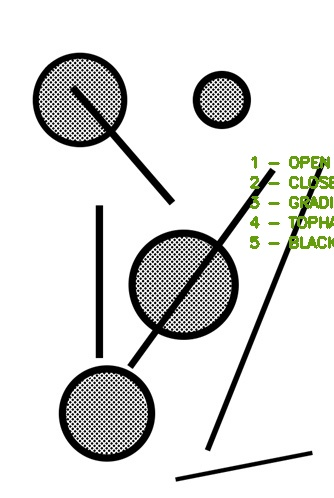
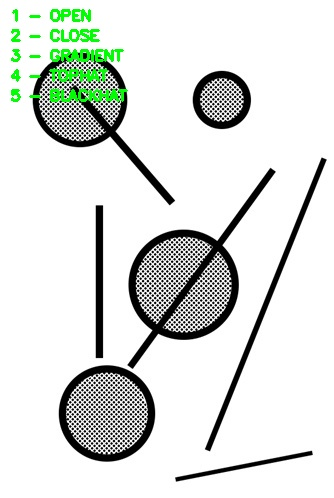
f

diff --git a/lab4.py b/lab4.py
@@ -135,11 +135,11 @@ createTrackbar2()
 while True:
 
     pictureMorphologyEx = morphologyEx(picture)
-    cv2.putText(pictureMorphologyEx, '1 - OPEN', (pictureMorphologyEx.shape[0] // 2, pictureMorphologyEx.shape[1] // 2), cv2.FONT_HERSHEY_SIMPLEX, 0.5, (13, 158, 100), 2)
-    cv2.putText(pictureMorphologyEx, '2 - CLOSE', (pictureMorphologyEx.shape[0] // 2, pictureMorphologyEx.shape[1] // 2 + 20), cv2.FONT_HERSHEY_SIMPLEX, 0.5, (13, 158, 100), 2)
-    cv2.putText(pictureMorphologyEx, '3 - GRADIENT', (pictureMorphologyEx.shape[0] // 2, pictureMorphologyEx.shape[1] // 2 + 40), cv2.FONT_HERSHEY_SIMPLEX, 0.5, (13, 158, 100), 2)
-    cv2.putText(pictureMorphologyEx, '4 - TOPHAT', (pictureMorphologyEx.shape[0] // 2, pictureMorphologyEx.shape[1] // 2 + 60), cv2.FONT_HERSHEY_SIMPLEX, 0.5, (13, 158, 100), 2)
-    cv2.putText(pictureMorphologyEx, '5 - BLACKHAT', (pictureMorphologyEx.shape[0] // 2, pictureMorphologyEx.shape[1] // 2 + 80), cv2.FONT_HERSHEY_SIMPLEX, 0.5, (13, 158, 100), 2)
+    cv2.putText(pictureMorphologyEx, '1 - OPEN', (10, 20), cv2.FONT_HERSHEY_SIMPLEX, 0.5, (0, 255, 0), 2)
+    cv2.putText(pictureMorphologyEx, '2 - CLOSE', (10, 20 + 20), cv2.FONT_HERSHEY_SIMPLEX, 0.5, (0, 255, 0), 2)
+    cv2.putText(pictureMorphologyEx, '3 - GRADIENT', (10, 20 + 40), cv2.FONT_HERSHEY_SIMPLEX, 0.5, (0, 255, 0), 2)
+    cv2.putText(pictureMorphologyEx, '4 - TOPHAT', (10, 20 + 60), cv2.FONT_HERSHEY_SIMPLEX, 0.5, (0, 255, 0), 2)
+    cv2.putText(pictureMorphologyEx, '5 - BLACKHAT', (10, 20 + 80), cv2.FONT_HERSHEY_SIMPLEX, 0.5, (0, 255, 0), 2)
     cv2.imshow('pictureMorphologyEx', pictureMorphologyEx)
     if cv2.waitKey(1) == ord('q'):
         break
